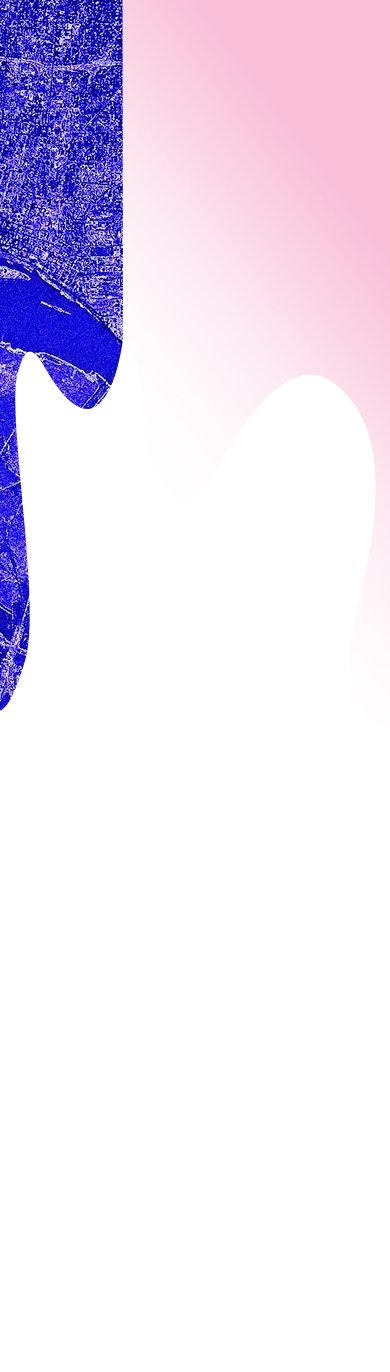
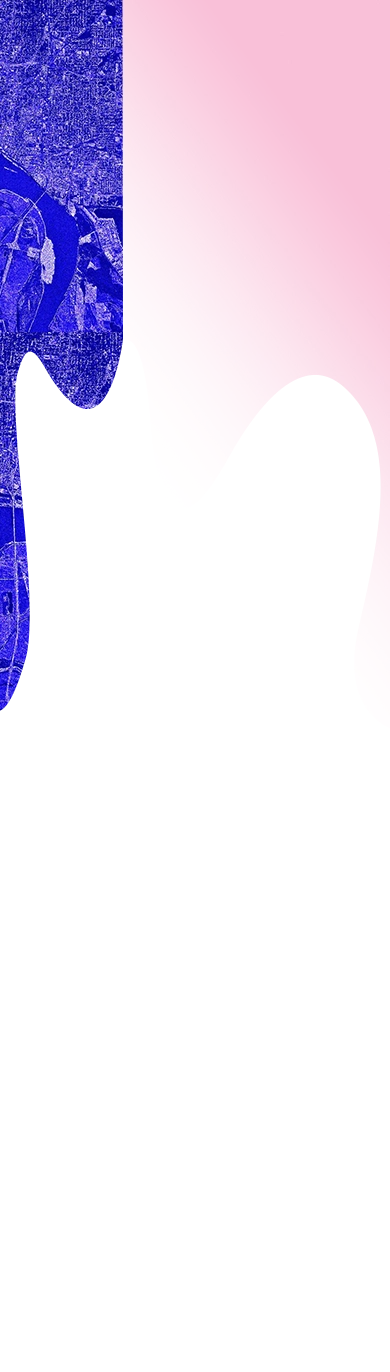
forside billeder

Changed region(s): [[0.0, 0.0, 0.3385, 0.5204], [0.9231, 0.3061, 0.9846, 0.3673], [0.8923, 0.2755, 0.9231, 0.3061]]

diff --git a/style.css b/style.css
@@ -52,7 +52,7 @@
     3.75rem
   );
   --h2-size--: clamp(1.6rem, 1.3800000000000001rem + 1.1vw, 2.7rem);
-  --h2--size--forside: clamp(1rem, 0.84rem + 0.8vw, 1.8rem) ;
+  --h2--size--forside: clamp(1rem, 0.84rem + 0.8vw, 1.8rem);
   --h3--size-: clamp(1.4rem, 1.23rem + 0.8500000000000001vw, 2.25rem);
   --h4-size--: clamp(1.25rem, 1.1rem + 0.75vw, 2rem);
   --h5-size--: clamp(1.125rem, 1.09rem + 0.17500000000000004vw, 1.3rem);
@@ -62,7 +62,6 @@
     font-size:
       clamp(0.7rem, 0.6399999999999999rem + 0.30000000000000004vw, 1rem) ;
   );
-
 
   --p--lineheight: clamp(1.5rem, 1.4rem + 0.5vw, 2rem);
 
@@ -452,6 +451,13 @@ button:hover {
   z-index: -100;
 }
 
+/* baggrundsbillede  */
+.forside_plet {
+  background-image: url(/img/390.webp);
+  background-size: contain;
+  background-repeat: no-repeat;
+}
+
 .forside_herounit_img_tekst_section {
   display: grid;
 }
@@ -545,6 +551,7 @@ button:hover {
   grid-area: 1/1;
   margin-top: 20rem;
 }
+
 /*------------------------------------------- Singleview --------------------------------------------------------*/
 
 /*------------------------------------------- Singleview --------------------------------------------------------*/
@@ -1270,6 +1277,13 @@ p.knap {
     width: 15rem;
   }
 
+  /* baggrundsbilledet */
+  .forside_plet {
+    background-image: url(/img/640.webp);
+    background-size: contain;
+    background-repeat: no-repeat;
+  }
+
   .forside_hero_img_flex {
     display: flex;
     gap: 0.5rem;
@@ -1384,8 +1398,11 @@ p.knap {
   /*-------------------------------------------- Bagom-siden -------------------------------------------------------*/
   /*-------------------------------------------- Forside-siden -----------------------------------------------------*/
 
-  .forside_satellit_img {
-    width: 20rem;
+  /* baggrundsbilledet */
+  .forside_plet {
+    background-image: url(/img/768.webp);
+    background-size: contain;
+    background-repeat: no-repeat;
   }
 
   .forside_hero_img {
@@ -1514,10 +1531,12 @@ p.knap {
   /*-------------------------------------------- Cookie-siden ------------------------------------------------------*/
   /*-------------------------------------------- Bagom-siden -------------------------------------------------------*/
   /*-------------------------------------------- Forside-siden -----------------------------------------------------*/
-  .forside_satellit_img {
-    width: 27rem;
+  /* baggrundsbilledet */
+  .forside_plet {
+    background-image: url(/img/1024.webp);
+    background-size: contain;
+    background-repeat: no-repeat;
   }
-
   .forside_hero_img {
     width: 16rem;
     height: 22rem;
@@ -1595,8 +1614,11 @@ p.knap {
   /*-------------------------------------------- Cookie-siden ------------------------------------------------------*/
   /*-------------------------------------------- Bagom-siden -------------------------------------------------------*/
   /*-------------------------------------------- Forside-siden -----------------------------------------------------*/
-  .forside_satellit_img {
-    width: 37rem;
+  /* baggrundsbilledet */
+  .forside_plet {
+    background-image: url(/img/1280.webp);
+    background-size: contain;
+    background-repeat: no-repeat;
   }
 
   .forside_hero_img {
@@ -1652,6 +1674,14 @@ p.knap {
   /*-------------------------------------------- Cookiesiden ------------------------------------------------------*/
   /*-------------------------------------------- Bagom-siden -------------------------------------------------------*/
   /*-------------------------------------------- Forside-siden -----------------------------------------------------*/
+
+  /* baggrundsbilledet */
+  .forside_plet {
+    background-image: url(/img/1538.webp);
+    background-size: contain;
+    background-repeat: no-repeat;
+  }
+
   /*-------------------------------------------- Singleview --------------------------------------------------------*/
 
   .singleview_produktbillede1 img {
@@ -1661,6 +1691,13 @@ p.knap {
 
   .singleview_h1 {
     margin-bottom: 3rem !important;
+    .forside_filtrering_produktbilleder {
+      grid-template-columns: repeat(auto-fit, minmax(300px, 1fr));
+    }
+
+    .forside_filtrering_produktbillede_enkelt:hover {
+      background-image: url(/img/produktbilleder/cph.01.02.webp);
+    }
   }
   .singleview_h3 {
     font-size: 2rem !important;

diff --git a/forside.html b/forside.html
@@ -84,17 +84,10 @@
     </header>
 
     <!-- main -->
-    <main >
+    <main class="forside_plet">
       <article id="forside_article">
         <section class="forside_herounit_img_tekst_section">
-        <div class="forside_satellit_div">
-          <img  class="forside_satellit_img" id="forside_satellit_img01" src="/img/satellitkort.webp"  alt="Dette er et satellitkort over Memphis, Tennessee."/>
-          <img  class="forside_satellit_img" id="forside_satellit_img02" src="/img/satellitkort.webp"  alt="Dette er et satellitkort over Memphis, Tennessee."/>
-          <img  class="forside_satellit_img" id="forside_satellit_img03" src="/img/satellitkort.webp"  alt="Dette er et satellitkort over Memphis, Tennessee."/>
-          <img  class="forside_satellit_img" id="forside_satellit_img04" src="/img/satellitkort.webp"  alt="Dette er et satellitkort over Memphis, Tennessee."/>
-          
-          
-        </div>
+       
 
 
         <div id="forside_hero_wrap">
@@ -127,22 +120,7 @@
 
 
 
-        <div class="forside_div_wrapper">
-          <div class="forside_satellit_div">
-            <img  class="forside_satellit_img" src="/img/satellitkort.webp"  alt="Dette er et satellitkort over Memphis, Tennessee."/>
-            <img  class="forside_satellit_img" src="/img/satellitkort.webp"  alt="Dette er et satellitkort over Memphis, Tennessee."/>
-            <img  class="forside_satellit_img" src="/img/satellitkort.webp"  alt="Dette er et satellitkort over Memphis, Tennessee."/>
-            <img  class="forside_satellit_img" src="/img/satellitkort.webp"  alt="Dette er et satellitkort over Memphis, Tennessee."/>
-            <img  class="forside_satellit_img" src="/img/satellitkort.webp"  alt="Dette er et satellitkort over Memphis, Tennessee."/>
-            <img  class="forside_satellit_img" src="/img/satellitkort.webp"  alt="Dette er et satellitkort over Memphis, Tennessee."/>
-            <img  class="forside_satellit_img" src="/img/satellitkort.webp"  alt="Dette er et satellitkort over Memphis, Tennessee."/>
-            <img  class="forside_satellit_img" src="/img/satellitkort.webp"  alt="Dette er et satellitkort over Memphis, Tennessee."/>
-            <img  class="forside_satellit_img" src="/img/satellitkort.webp"  alt="Dette er et satellitkort over Memphis, Tennessee."/>
-            <img  class="forside_satellit_img" src="/img/satellitkort.webp"  alt="Dette er et satellitkort over Memphis, Tennessee."/>
-            <img  class="forside_satellit_img" src="/img/satellitkort.webp"  alt="Dette er et satellitkort over Memphis, Tennessee."/>
-            <img  class="forside_satellit_img" src="/img/satellitkort.webp"  alt="Dette er et satellitkort over Memphis, Tennessee."/>
-            <img  class="forside_satellit_img" src="/img/satellitkort.webp"  alt="Dette er et satellitkort over Memphis, Tennessee."/>
-          </div>
+      
         
           <div class="forside_univers_div" >
 
